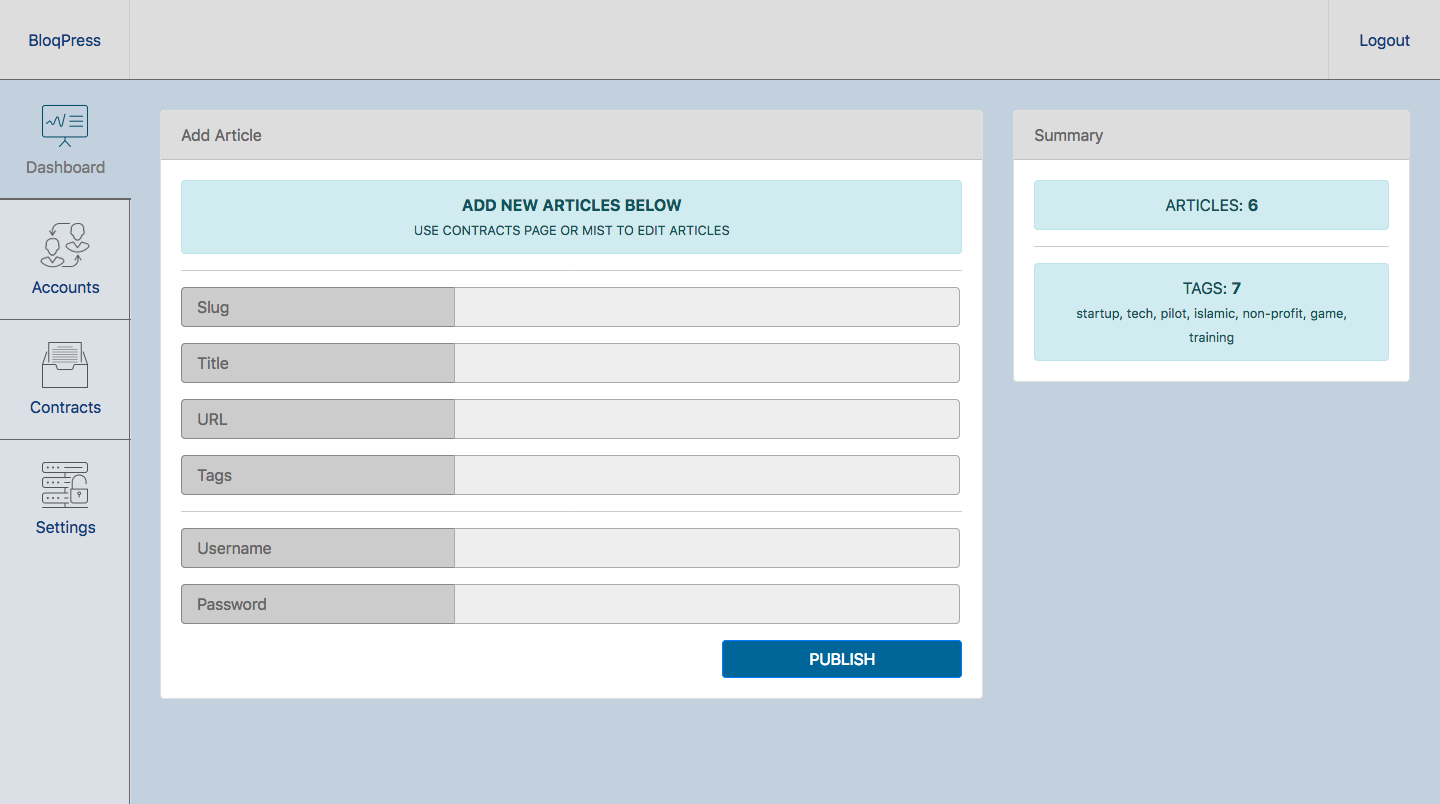
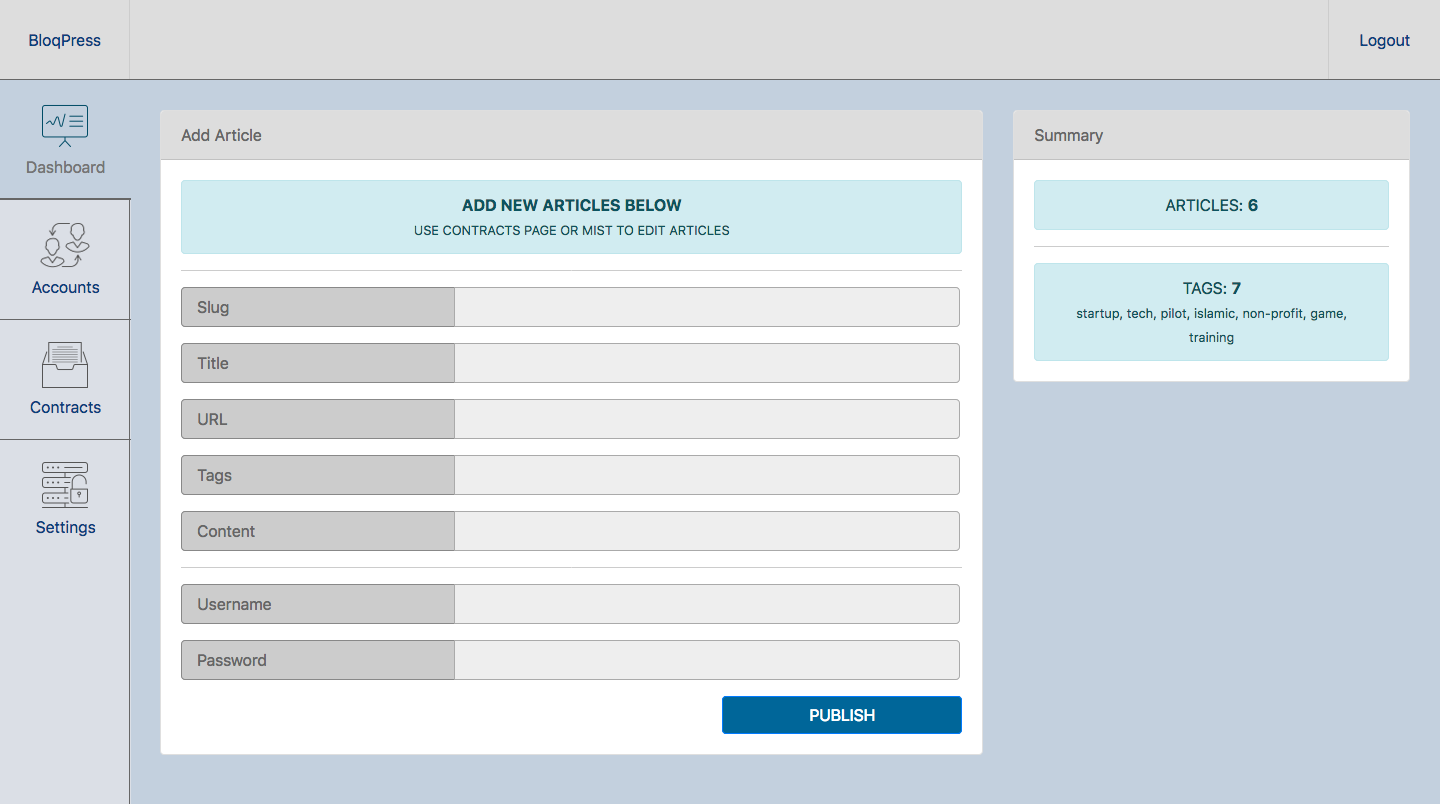
placeholder for add new article form

Changed region(s): [[0.0938, 0.7463, 0.6875, 0.9639], [0.125, 0.6219, 0.3438, 0.7152]]

diff --git a/admin/js/demo.js b/admin/js/demo.js
@@ -207,18 +207,32 @@ var bp_demo = {
                     $('.bp-tag-count').text(tag_count);
                     $('.bp-tags').text(tag_html);
                 });
-                $('form.bp-add-article').on('submit', function(e)
+                $('body').on('submit', 'form.bp-add-article', function(e)
                 {
+                    e.preventDefault();
                     var form = this;
                     var slug = $(form).find('#bp_slug').val();
                     var title = $(form).find('#bp_title').val();
                     var url = $(form).find('#bp_url').val();
                     var tags = $(form).find('#bp_tags').val();
+                    var content = $(form).find('#bp_content').val();
                     var username = $(form).find('#bp_username').val();
                     var password = $(form).find('#bp_password').val();
-                    if(slug && title && url && tags && username && password)
+                    if(slug && title && url && tags && content && username && password)
                     {
+                        /*
+
+                        TODO: REPLACE WITH WORKING FORM
                         
+                        -- Use mist in order to add, update or remove article
+                        -- Contract launcher and inline articles coming soon!
+                        
+                        */
+                        cortex.ux.modals('Warning', 'You do not have the required funds');
+                    }
+                    else
+                    {
+                        cortex.ux.modals('Warning', 'All article fields are required');
                     }
                 });
             }

diff --git a/admin/dashboard/index.html b/admin/dashboard/index.html
@@ -89,6 +89,12 @@
                                 <input class="form-control" id="bp_tags" />
                             </div>
                         </div>
+                        <div class="form-group row">
+                            <label for="bp_content" class="col-sm-4 control-label">Content</label>
+                            <div class="col-sm-8">
+                                <input class="form-control" id="bp_content" />
+                            </div>
+                        </div>
                         <hr>
                         <div class="form-group row">
                             <label for="bp_username" class="col-sm-4 control-label">Username</label>
